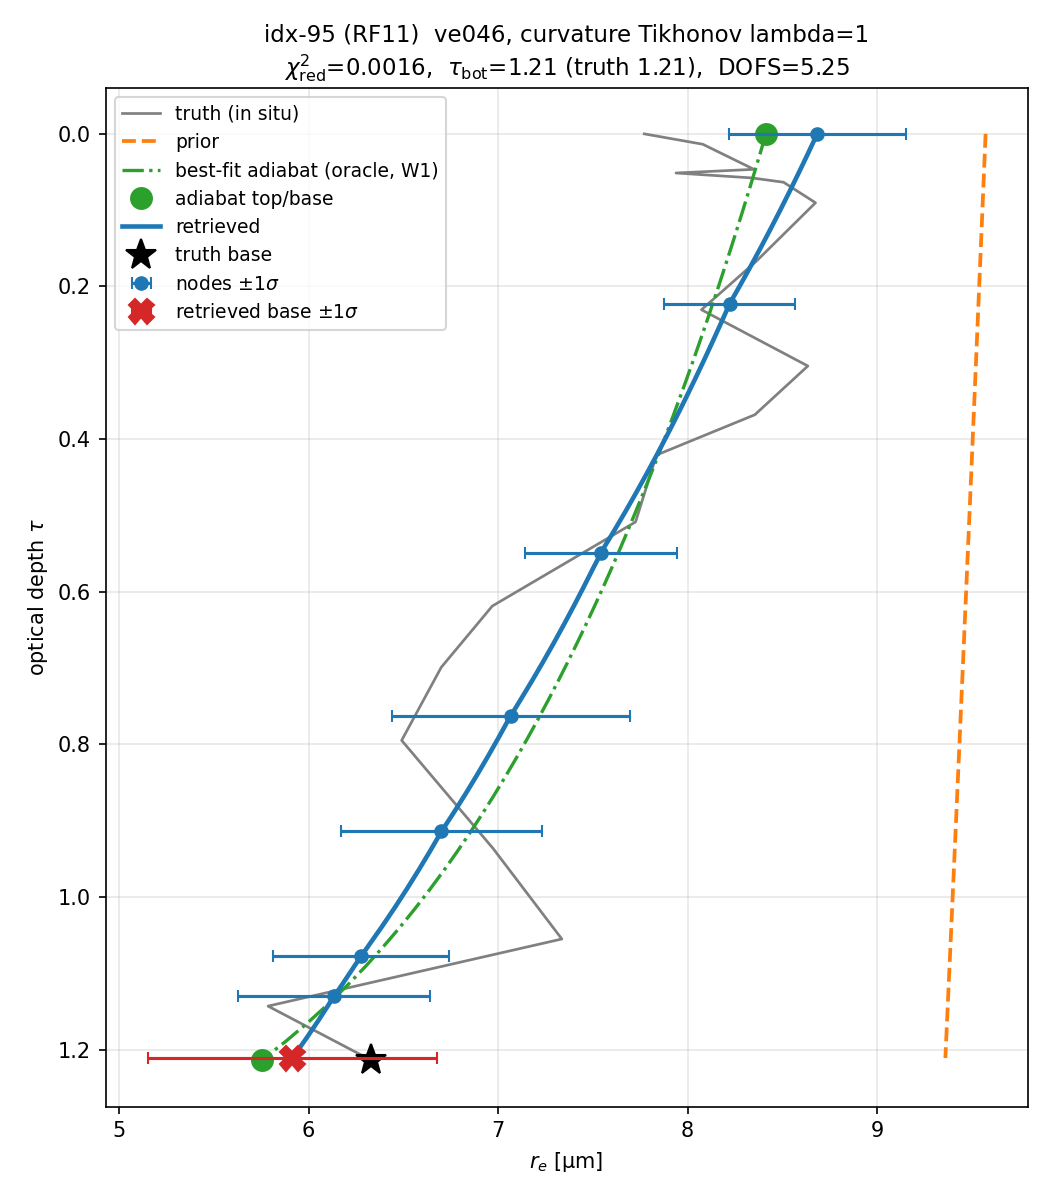
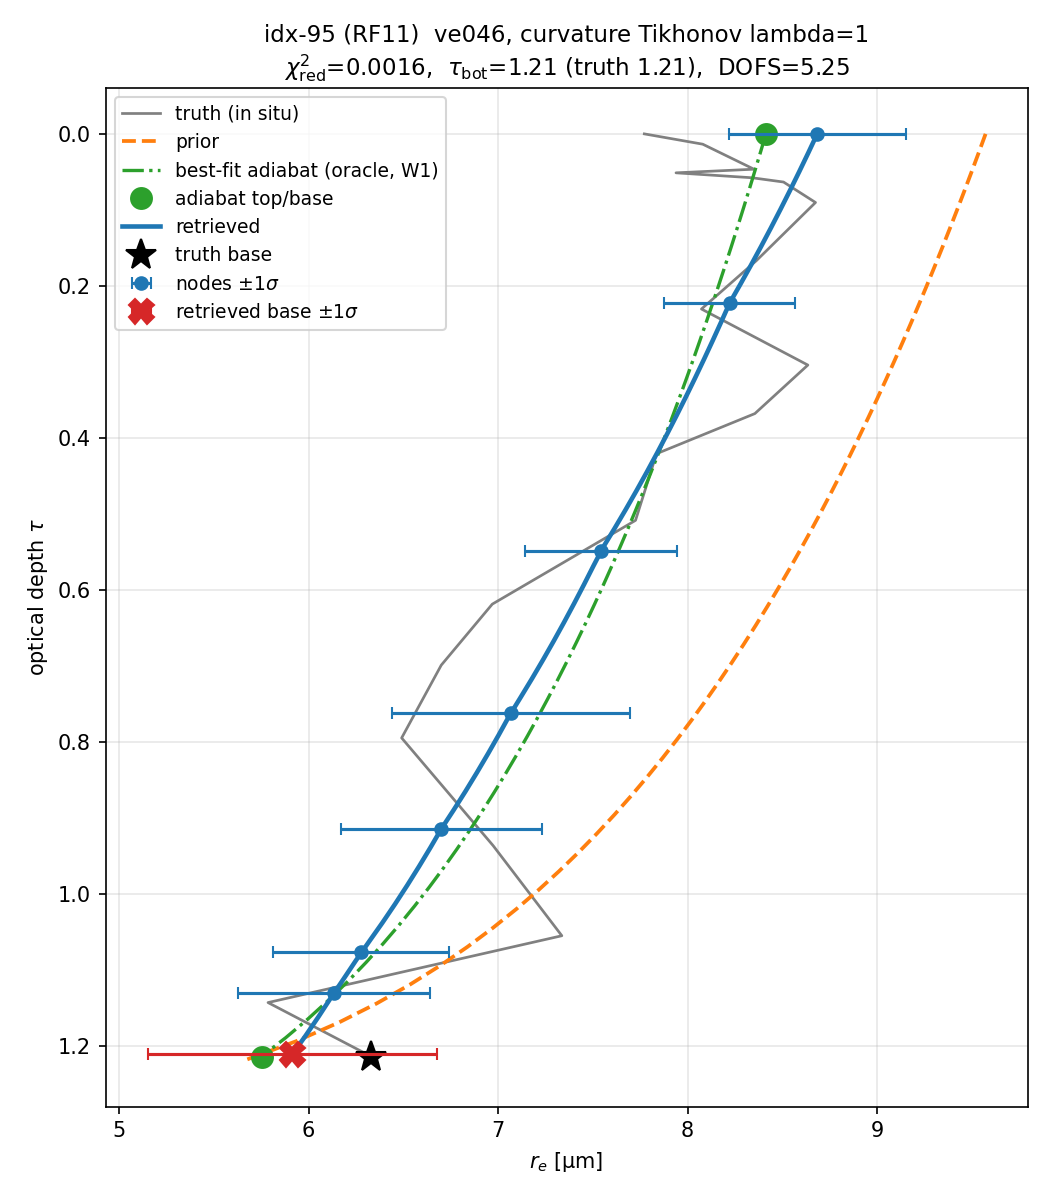
fix: prior plot uses pre-retrieved tau_bot, not climatological mean
x_a_log's trailing tau_bot entry is the unconditioned climatological population
mean; profile() reads tau_bot from x itself, so leaving it in place mis-scaled
the prior's s=tau/tau_bot mapping. Swap to tau_bot_pre (per-profile pre-retrieval
estimate, from {idx}.json) before calling profile(). Applied to
plot_retrieved_profile.py and the new idx92 tik-vs-notik overlay; both figures
remade.

diff --git a/scripts/plot_idx92_tik_vs_notik.py b/scripts/plot_idx92_tik_vs_notik.py
@@ -1,0 +1,112 @@
+"""idx92 tik-vs-notik overlay (2026-07-16): bad_Adiabest-fit.png template, two retrieved
+curves (canonical curvature_lambda=1 vs the no-Tikhonov re-run) on shared truth/prior/adiabat.
+
+Usage: plot_idx92_tik_vs_notik.py
+"""
+import sys
+import os
+import json
+from pathlib import Path
+
+import numpy as np
+
+_WORKSPACE = Path(__file__).resolve().parents[2]
+os.environ.setdefault("OSSE_VEFF", "0.046")
+os.environ.setdefault("OSSE_RE_MAX", "22")
+os.environ.setdefault("OSSE_QUADRATURE", "fixed")
+os.environ.setdefault("OSSE_RE_GRID_N", "181")
+os.environ.setdefault("OSSE_N_RADII", "4096")
+os.environ.setdefault("OPTICS_CACHE", str(_WORKSPACE / "data" / "optics_table_10band_nleg1536_re22_fq.npz"))
+os.environ.setdefault("RADIANCE_CACHE", str(_WORKSPACE / "data" / "osse_radiances_ve046_fq.npz"))
+os.environ.setdefault("JAX_PLATFORMS", "cpu")
+os.environ.setdefault("PYDISORT_RICCATI_JAX_X64", "1")
+
+sys.path.insert(0, str(Path(__file__).resolve().parents[1] / "src"))
+from pydisort_riccati_jax import osse_config as oc                   # noqa: E402
+
+import matplotlib                                                    # noqa: E402
+matplotlib.use("Agg")
+import matplotlib.pyplot as plt                                      # noqa: E402
+
+S_DENSE = np.linspace(0.0, 1.0, 50)
+IDX = 92
+RUNS = [
+    ("runs/_ve046_tik_fr_parts", "tik (canonical, lambda=1)", "tab:blue", "-"),
+    ("runs/_ve046_notik_pathology_parts", "no-Tikhonov (lambda=0)", "tab:purple", "--"),
+]
+
+
+def main():
+    out = "docs/figures/ve046_idx92_tik_vs_notik.png"
+    opt = oc.load_optics(oc.OPTICS_CACHE)
+
+    fig, ax = plt.subplots(figsize=(7, 8))
+    z0 = None
+    stats = {}
+    for parts_dir, label, color, ls in RUNS:
+        z = dict(np.load(Path(parts_dir) / f"{IDX}_A.npz", allow_pickle=True))
+        if z0 is None:
+            z0 = z
+        stats[label] = (float(z["chi2_red"]), float(z["dofs"]))
+        s_grid = np.asarray(z["s_grid"], float)
+        tau_bot_ret = float(z["tau_bot_ret"])
+        r_base_ret = float(z["r_base_ret"])
+        re_nodes_ret = np.asarray(z["re_nodes_ret"], float)
+        S_hat_diag = np.diag(np.asarray(z["S_hat_log"], float))
+        sigma_nodes = re_nodes_ret * np.sqrt(S_hat_diag[:len(s_grid)])
+        sigma_rbase = r_base_ret * np.sqrt(S_hat_diag[len(s_grid)])
+        tau_nodes = s_grid * tau_bot_ret
+        tau_dense_ret = S_DENSE * tau_bot_ret
+
+        ax.plot(z["re_ours_dense"], tau_dense_ret, color=color, ls=ls, lw=2.2,
+                label=f"retrieved: {label}")
+        ax.errorbar(re_nodes_ret, tau_nodes, xerr=sigma_nodes, fmt="o", color=color,
+                    ms=6, capsize=3, zorder=6)
+        ax.errorbar([r_base_ret], [tau_bot_ret], xerr=[sigma_rbase], fmt="X", color=color,
+                    ms=12, capsize=3, zorder=7)
+
+        if parts_dir == "runs/_ve046_tik_fr_parts":
+            tau_bot_pre = json.loads((Path(parts_dir) / f"{IDX}.json").read_text())["tau_bot_pre"]
+            fwd = oc.build_forward(opt, tau_bot=tau_bot_ret, r_base=r_base_ret,
+                                   views="retrieval", jac_mode="fwd")
+            # profile() reads tau_bot from x itself -- swap x_a_log's trailing tau_bot
+            # entry (unconditioned climatological mean) to the pre-retrieved tau_bot_pre
+            # so the prior's [0,1] shape displays at the right scale (memory fix 2026-07-16).
+            x_a_prior_log = np.asarray(z["x_a_log"], float).copy()
+            x_a_prior_log[-1] = np.log(tau_bot_pre)
+            tau_dense_prior = S_DENSE * tau_bot_pre
+            re_prior_dense = fwd.profile(x_a_prior_log, s_grid, tau_dense_prior)
+            ax.plot(re_prior_dense, tau_dense_prior, color="tab:orange", ls="--", lw=1.8,
+                    label="prior")
+
+    truth_tau_bot = float(z0["truth_tau_bot"])
+    tau_dense_adia = S_DENSE * truth_tau_bot
+    ax.plot(z0["truth_re"], z0["truth_tau"], color="grey", lw=1.3, label="truth (in situ)")
+    ax.plot(z0["re_adia_dense"], tau_dense_adia, color="tab:green", ls="-.", lw=1.6,
+            label="best-fit adiabat (oracle, W1)")
+    ax.plot([z0["re_adia_dense"][0], z0["re_adia_dense"][-1]],
+            [tau_dense_adia[0], tau_dense_adia[-1]], "o", color="tab:green", ms=10,
+            zorder=5, label="adiabat top/base")
+    ax.plot(float(z0["truth_r_base"]), truth_tau_bot, "*", color="k", ms=15, zorder=8,
+            label="truth base")
+
+    ax.invert_yaxis()
+    ax.set_xlabel(r"$r_e$ [µm]")
+    ax.set_ylabel(r"optical depth $\tau$")
+    ax.grid(alpha=0.3)
+    ax.legend(fontsize=8.5, loc="upper left")
+    chi2_t, dofs_t = stats["tik (canonical, lambda=1)"]
+    chi2_n, dofs_n = stats["no-Tikhonov (lambda=0)"]
+    ax.set_title(
+        f"idx-{IDX} ({str(z0['flight'])})  ve046, curvature Tikhonov lambda=1 vs 0\n"
+        f"tik: $\\chi^2_\\mathrm{{red}}$={chi2_t:.4f} DOFS={dofs_t:.2f}  |  "
+        f"notik: $\\chi^2_\\mathrm{{red}}$={chi2_n:.4f} DOFS={dofs_n:.2f}",
+        fontsize=10)
+    fig.tight_layout()
+    Path(out).parent.mkdir(parents=True, exist_ok=True)
+    fig.savefig(out, dpi=150)
+    print("saved", out)
+
+
+if __name__ == "__main__":
+    main()

diff --git a/scripts/retrieval_worker.py b/scripts/retrieval_worker.py
@@ -105,6 +105,15 @@ CURVATURE_LAMBDA = float(os.environ.get('CURVATURE_LAMBDA', '0.0'))  # 2nd-diffe
 MAX_N_OUTER = int(os.environ.get('MAX_N_OUTER', '1'))             # main-path re-mesh cap (default 1 =
 #   select-once, the published-campaign behavior; corrective re-runs pass 2 via retrieve_one() directly —
 #   this env lets a whole campaign (e.g. ve_rerun) opt every profile into placement re-meshing up front)
+_FKA = os.environ.get('FORCE_K_ACTIVE')                           # ablation knob (2026-07-16, OPT-IN):
+FORCE_K_ACTIVE = int(_FKA) if _FKA else None                      # pin select_retrieval_grid's k_active
+#   instead of letting the noise-aware filter (auto_k_active) pick it. FORCE_K_ACTIVE=1 forces exactly
+#   ONE free interior node — cloud-top s≈0, always retained first — so together with the r_base anchor
+#   (s=1) the retrieved profile has exactly 2 shape knots and interpolates re5-linear between them: the
+#   SAME functional form as make_adiabatic_prior. This makes the RETRIEVAL itself adiabatic-constrained
+#   (not just the first guess/prior mean), the "collapse to 2 adiabatic DOF" ablation (cf.
+#   best_fit_adiabatic's oracle floor, which does this post-hoc/non-causally). Default None = filter-
+#   selected k (unchanged production path).
 FR_CONFIGS = os.environ.get('FR_CONFIGS', 'AB').upper()           # which prior configs to run
 if not FR_CONFIGS or set(FR_CONFIGS) - {'A', 'B'}:                # (ve_rerun: 'A' = headline only;
     raise SystemExit(f"FR_CONFIGS must be a non-empty subset of 'AB', got {FR_CONFIGS!r}")  # default unchanged)
@@ -212,7 +221,11 @@ def build_forward_and_obs(truth, clim, index, *, optics_cache=OPTICS_CACHE,
             # CLIM_TAU_BOT feeds the pre-retrieval's prior anchor -> tau_bot_pre/grid in the
             # cached setup depend on it; a different feed must never load this setup. Conditional
             # (like osse_config.signature's quadrature tag) so every legacy cache stays valid.
-            + (f"|ctb{os.environ['CLIM_TAU_BOT']}" if os.environ.get('CLIM_TAU_BOT') else ''))
+            + (f"|ctb{os.environ['CLIM_TAU_BOT']}" if os.environ.get('CLIM_TAU_BOT') else '')
+            # FORCE_K_ACTIVE changes the SELECTED s_grid itself (not just execution) -> a
+            # canonical (filter-selected) setup cache must never be mistaken for a forced-k one
+            # or vice versa (rigor over results — see FORCE_K_ACTIVE docstring above).
+            + (f"|k{FORCE_K_ACTIVE}" if FORCE_K_ACTIVE is not None else ''))
     if setup_cache_path is not None and os.path.exists(setup_cache_path):
         try:
             _sc = np.load(setup_cache_path, allow_pickle=True)
@@ -264,7 +277,7 @@ def build_forward_and_obs(truth, clim, index, *, optics_cache=OPTICS_CACHE,
     _t = time.time()
     x_fg2 = fwd._encode_state(roe.make_climatology_prior(S_COARSE, clim)[0])
     s_grid, _, _ = roe.select_retrieval_grid(
-        fwd, x_fg2, S_COARSE, k_active=None, Se=Se, prior_builder=pb_phys)
+        fwd, x_fg2, S_COARSE, k_active=FORCE_K_ACTIVE, Se=Se, prior_builder=pb_phys)
     if VERBOSE:
         print(f"    [build +{time.time()-_t:.0f}s] final select_retrieval_grid "
               f"(at tau_bot_pre={tau_bot_pre:.2f}) -> k={len(s_grid)}", flush=True)
@@ -415,7 +428,7 @@ def main():
     _ret_optics_path = RETRIEVAL_OPTICS_CACHE or str(OPTICS_CACHE)
     rec = dict(index=index, flight=flight, NQuad=NQ, cost_rtol=COST_RTOL,
                state_space='log', precision=_PREC, tol=SOLVER_TOL, mode_map=MODE_MAP,
-               radiance_cache=RADIANCE_CACHE.name,
+               radiance_cache=RADIANCE_CACHE.name, force_k_active=FORCE_K_ACTIVE,
                # optics-table provenance (2026-07-12 quadrature/staircase fix): flags
                # which table generation produced this result — legacy 32-pt moving vs
                # the fixed-quadrature derivative-grade rebuild. osig/truth_v_eff describe

diff --git a/scripts/plot_retrieved_profile.py b/scripts/plot_retrieved_profile.py
@@ -6,8 +6,14 @@ this script rather than one-off inline plotting code.
 
 All curves in absolute optical depth tau (0 = cloud top, tau_bot = cloud base):
   * truth (in situ)       -- raw VOCALS-REx r_e(tau) samples, grey
-  * prior                 -- climatological prior mean, dense (fwd.profile on x_a_log),
-                              displayed against the RETRIEVED tau_bot axis, orange dashed
+  * prior                 -- climatological prior mean SHAPE, dense (fwd.profile on x_a_log
+                              with its tau_bot entry swapped to the pre-retrieved tau_bot_pre),
+                              displayed against the PRE-RETRIEVED tau_bot axis, orange dashed
+                              (profile() reads tau_bot from x itself, not the tau query points --
+                              x_a_log's own tau_bot entry is the unconditioned climatological
+                              population mean, which silently mis-scales the s=tau/tau_bot
+                              mapping if left in place; swap it to tau_bot_pre, the per-profile
+                              pre-retrieval estimate, so the full [0,1] shape displays correctly)
   * best-fit adiabat (oracle, W1) -- re_adia_dense from the sidecar (fit against truth,
                               so on the TRUTH tau_bot axis), green dash-dot, with
                               top/base circle markers
@@ -35,6 +41,7 @@ Env: OSSE_VEFF/OSSE_RE_MAX/OPTICS_CACHE/RADIANCE_CACHE default to the ve046 fq
 """
 import sys
 import os
+import json
 from pathlib import Path
 
 import numpy as np
@@ -76,13 +83,20 @@ def main():
     S_hat_diag = np.diag(np.asarray(z["S_hat_log"], float))
     re_nodes_ret = np.asarray(z["re_nodes_ret"], float)
     r_base_ret = float(z["r_base_ret"])
+    tau_bot_pre = json.loads((parts_dir / f"{idx}.json").read_text())["tau_bot_pre"]
 
     opt = oc.load_optics(oc.OPTICS_CACHE)
     fwd = oc.build_forward(opt, tau_bot=tau_bot_ret, r_base=r_base_ret,
                            views="retrieval", jac_mode="fwd")
     tau_dense_ret = S_DENSE * tau_bot_ret
     tau_dense_adia = S_DENSE * truth_tau_bot
-    re_prior_dense = fwd.profile(x_a_log, s_grid, tau_dense_ret)     # prior shape, displayed on the retrieved tau_bot axis
+    # profile() reads tau_bot from x itself (not the tau query points) -- x_a_log's own
+    # tau_bot entry (last) is the unconditioned climatological population mean; swap it
+    # to the pre-retrieved tau_bot_pre so the prior's full [0,1] shape displays correctly.
+    x_a_prior_log = x_a_log.copy()
+    x_a_prior_log[-1] = np.log(tau_bot_pre)
+    tau_dense_prior = S_DENSE * tau_bot_pre
+    re_prior_dense = fwd.profile(x_a_prior_log, s_grid, tau_dense_prior)
 
     sigma_nodes = re_nodes_ret * np.sqrt(S_hat_diag[:len(s_grid)])
     sigma_rbase = r_base_ret * np.sqrt(S_hat_diag[len(s_grid)])
@@ -90,7 +104,7 @@ def main():
 
     fig, ax = plt.subplots(figsize=(7, 8))
     ax.plot(z["truth_re"], z["truth_tau"], color="grey", lw=1.3, label="truth (in situ)")
-    ax.plot(re_prior_dense, tau_dense_ret, color="tab:orange", ls="--", lw=1.8, label="prior")
+    ax.plot(re_prior_dense, tau_dense_prior, color="tab:orange", ls="--", lw=1.8, label="prior")
     ax.plot(z["re_adia_dense"], tau_dense_adia, color="tab:green", ls="-.", lw=1.6,
             label="best-fit adiabat (oracle, W1)")
     ax.plot([z["re_adia_dense"][0], z["re_adia_dense"][-1]],
